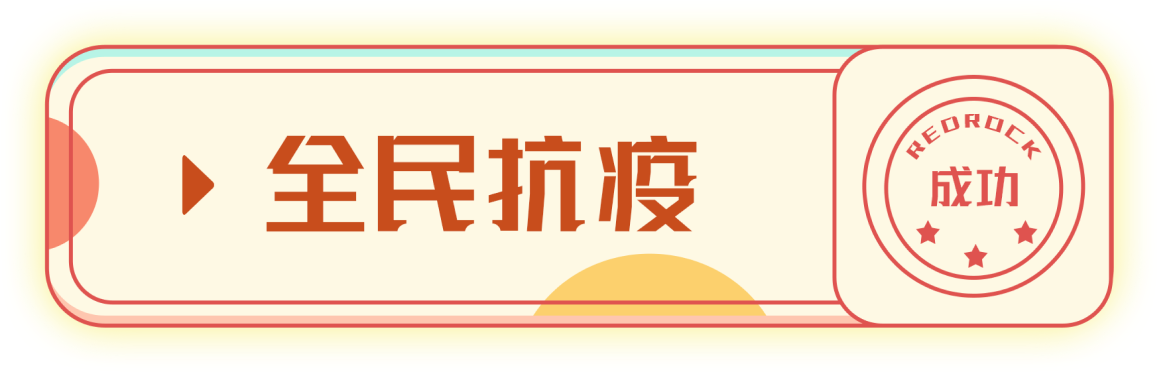
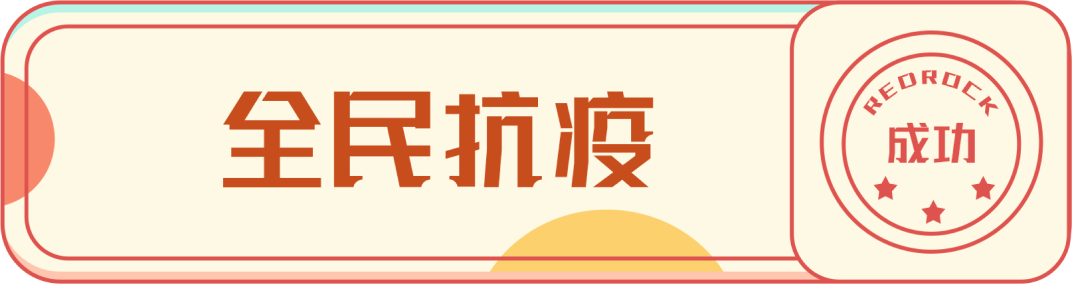
feat: show done sentakushi image

diff --git a/src/assets/styles/selection.less b/src/assets/styles/selection.less
@@ -46,7 +46,6 @@
 
                 &.harvest {
                     background-image: url("../images/selection/harvest.png");
-
                     .start-game {
                         top: 64.533333333vw;
                     }
@@ -54,7 +53,6 @@
 
                 &.interstellarTrip {
                     background-image: url("../images/selection/interstellar-trip.png");
-
                     .start-game {
                         top: 54.4vw;
                     }
@@ -62,7 +60,6 @@
 
                 &.antiEpidemic {
                     background-image: url("../images/selection/anti-epidemic.png");
-
                     .start-game {
                         top: 54.4vw;
                     }
@@ -70,15 +67,12 @@
 
                 &.techFuture {
                     background-image: url("../images/selection/tech-future.png");
-
                     .start-game {
                         top: 54.4vw;
                     }
                 }
 
-
                 &.expanded {
-
                     .triangle {
                         transform: rotate(90deg);
                     }

diff --git a/src/views/Selection/sentakushi.tsx b/src/views/Selection/sentakushi.tsx
@@ -27,7 +27,7 @@ const Sentakushi = ({ type, done }: Props): ReactElement => {
     const [expand, setExpand] = useState(false);
     return (
         <div
-            className={`sentakushi ${type} ${expand ? "expanded" : ""}`}
+            className={`sentakushi ${type} ${expand ? "expanded" : ""} ${done ? "done" : ""}`}
         >
             <img
                 className="triangle"
@@ -36,7 +36,7 @@ const Sentakushi = ({ type, done }: Props): ReactElement => {
             ></img>
             <img
                 className="preview"
-                src={images[`${type}`]}
+                src={images[`${type}${done ? "Done" : ""}`]}
                 onClick={() => setExpand(!expand)}
             ></img>
             <Link to={mapImageName(type)}>
